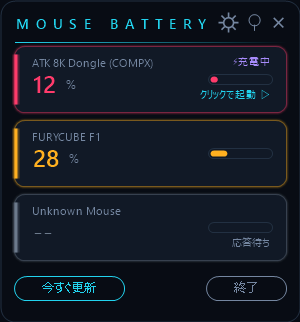
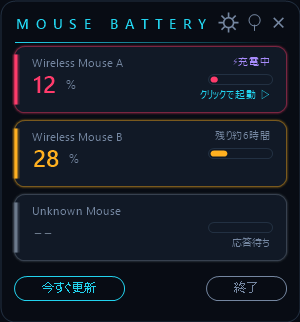
READMEのスクリーンショット内のデバイス名を匿名化
スクリーンショットは、この実機が実際に設定している具体的な製品名ではなく、
汎用的な仮のマウス名を表示するように変更。実際の製品名は引き続き実行中の
アプリ内やソースコードには残る（それが標準搭載プロバイダーの本来の目的）
——広報用画像だけには出さない、という対応。

Changed region(s): [[0.09, 0.1863, 0.51, 0.2174], [0.09, 0.4037, 0.42, 0.4348], [0.72, 0.4037, 0.9, 0.4348]]

diff --git a/src/MouseBatteryTray/Program.cs b/src/MouseBatteryTray/Program.cs
@@ -30,15 +30,15 @@ static class Program
     private static void RenderSnapshot(string outPath)
     {
         var settings = new AppSettings();
-        settings.GetOrCreate("atk-compx").CompanionPath = @"C:\Program Files (x86)\ATK HUB\ATK HUB.exe";
+        settings.GetOrCreate("atk-compx").CompanionPath = @"C:\Program Files\Vendor App\VendorApp.exe";
 
         using var popup = new BatteryPopupForm(settings);
         var _ = popup.Handle; // force native handle creation so DrawToBitmap works
 
         var sample = new[]
         {
-            new DeviceManager.DeviceStatus("atk-compx", "ATK 8K Dongle (COMPX)", new BatteryReading(12, true, 3550), null),
-            new DeviceManager.DeviceStatus("furycube-f1", "FURYCUBE F1", new BatteryReading(28, false, null), TimeSpan.FromHours(6.4)),
+            new DeviceManager.DeviceStatus("atk-compx", "Wireless Mouse A", new BatteryReading(12, true, 3550), null),
+            new DeviceManager.DeviceStatus("furycube-f1", "Wireless Mouse B", new BatteryReading(28, false, null), TimeSpan.FromHours(6.4)),
             new DeviceManager.DeviceStatus("unknown", "Unknown Mouse", null, null),
         };
         popup.UpdateReadings(sample);
